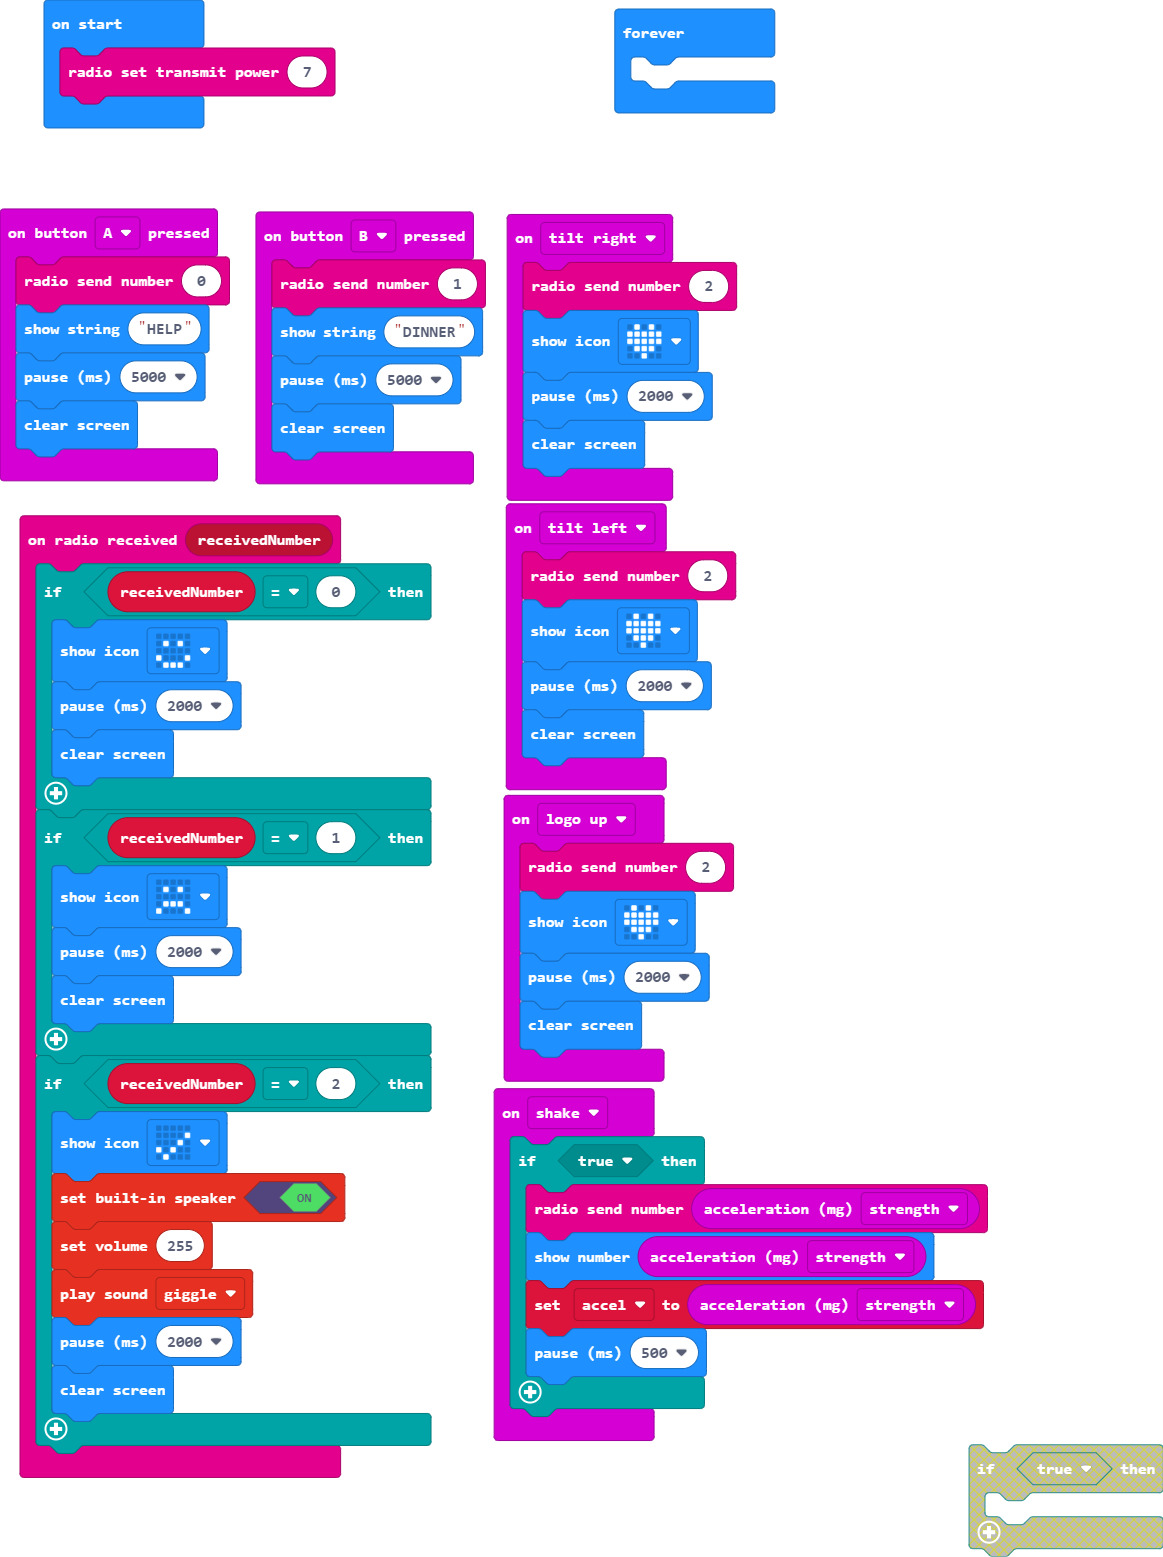
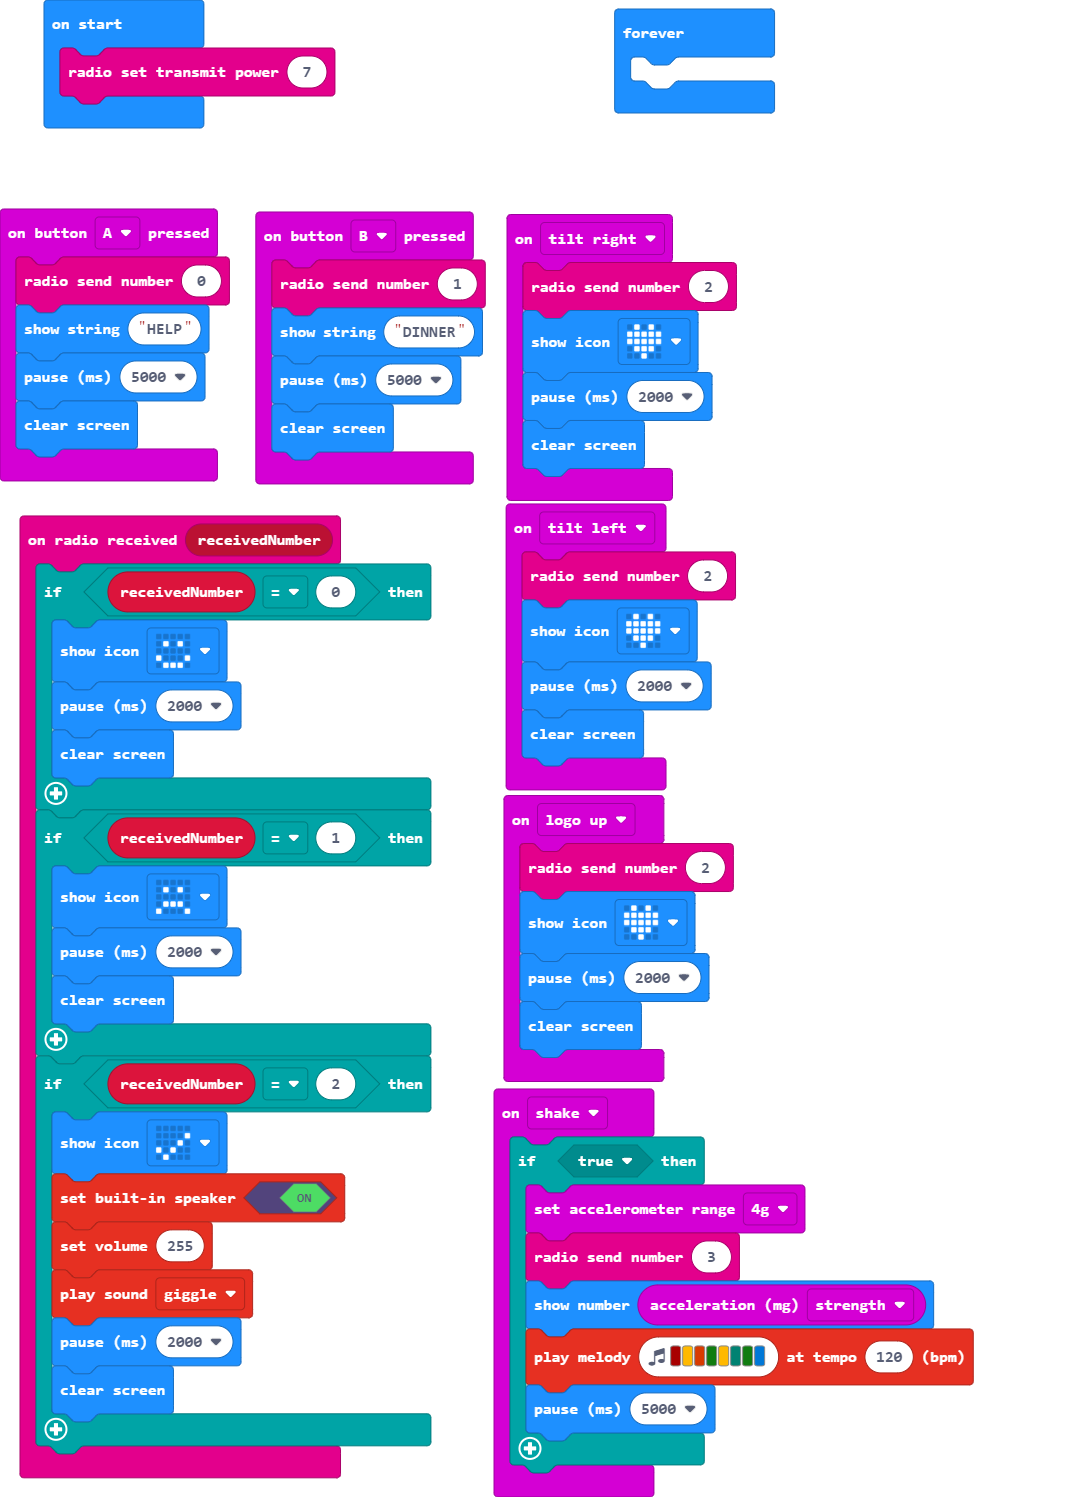
Update main.blocks, main.ts

diff --git a/main.ts b/main.ts
@@ -44,10 +44,11 @@ input.onButtonPressed(Button.B, function () {
 })
 input.onGesture(Gesture.Shake, function () {
     if (true) {
-        radio.sendNumber(input.acceleration(Dimension.Strength))
+        input.setAccelerometerRange(AcceleratorRange.FourG)
+        radio.sendNumber(3)
         basic.showNumber(input.acceleration(Dimension.Strength))
-        accel = input.acceleration(Dimension.Strength)
-        basic.pause(500)
+        music.playMelody("C5 A B G A F G E ", 120)
+        basic.pause(5000)
     }
 })
 input.onGesture(Gesture.TiltRight, function () {
@@ -56,7 +57,6 @@ input.onGesture(Gesture.TiltRight, function () {
     basic.pause(2000)
     basic.clearScreen()
 })
-let accel = 0
 radio.setTransmitPower(7)
 basic.forever(function () {
 	
